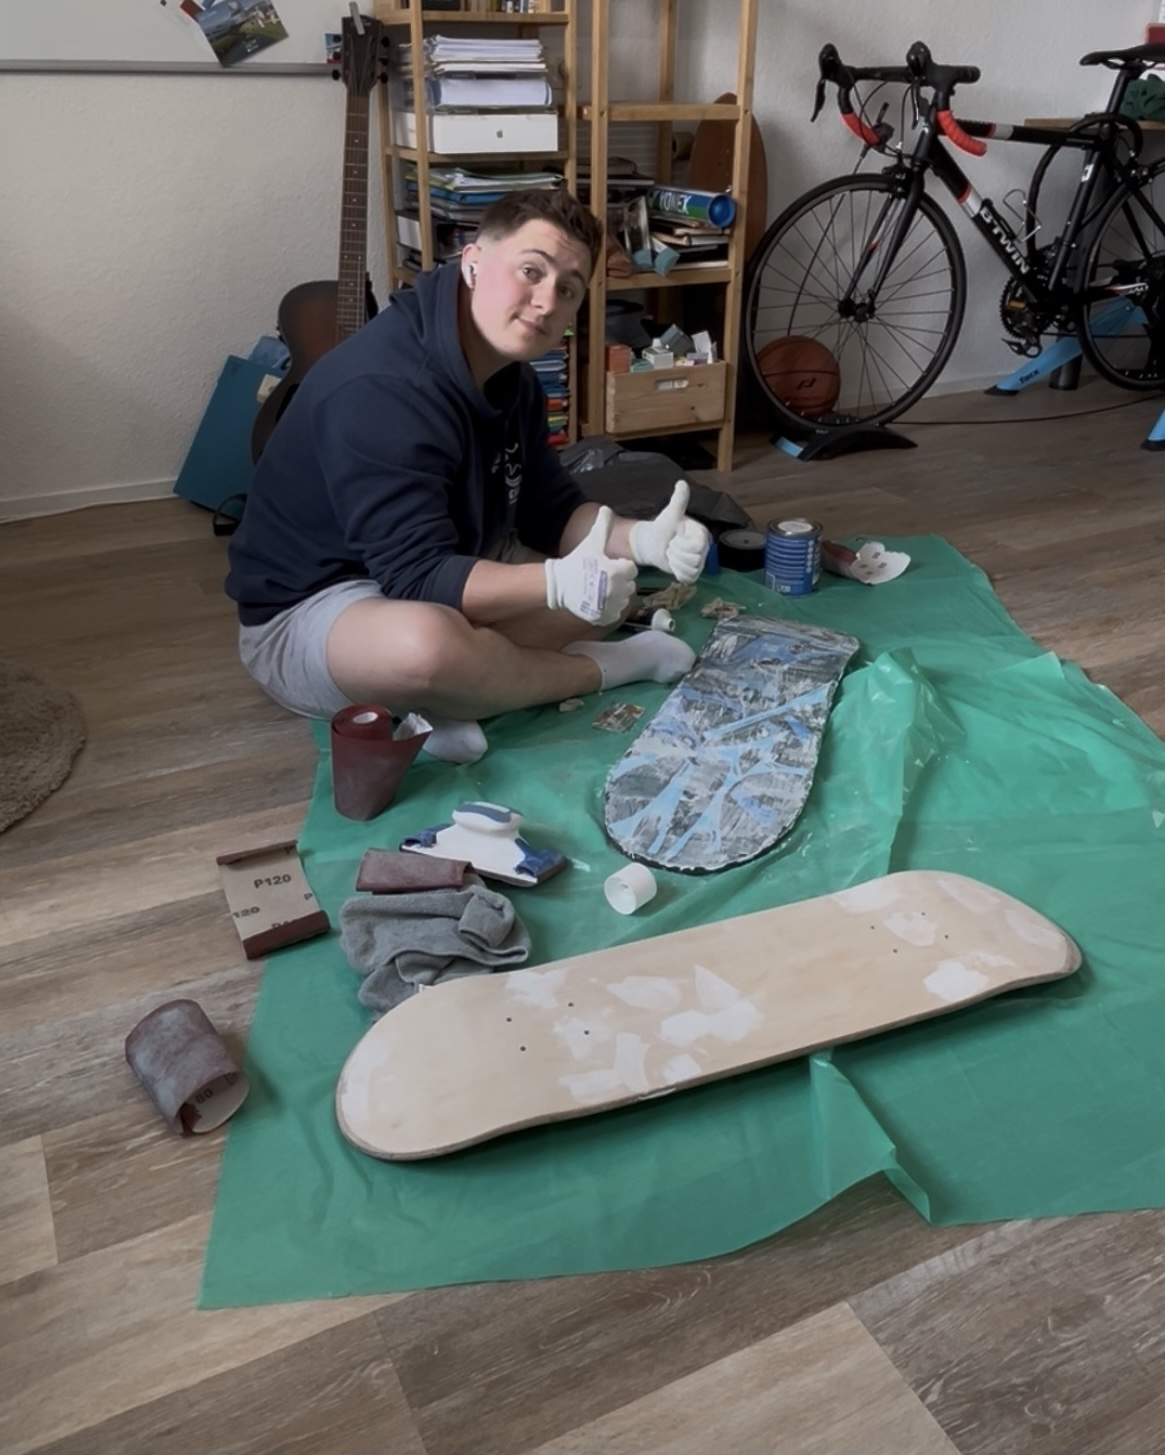
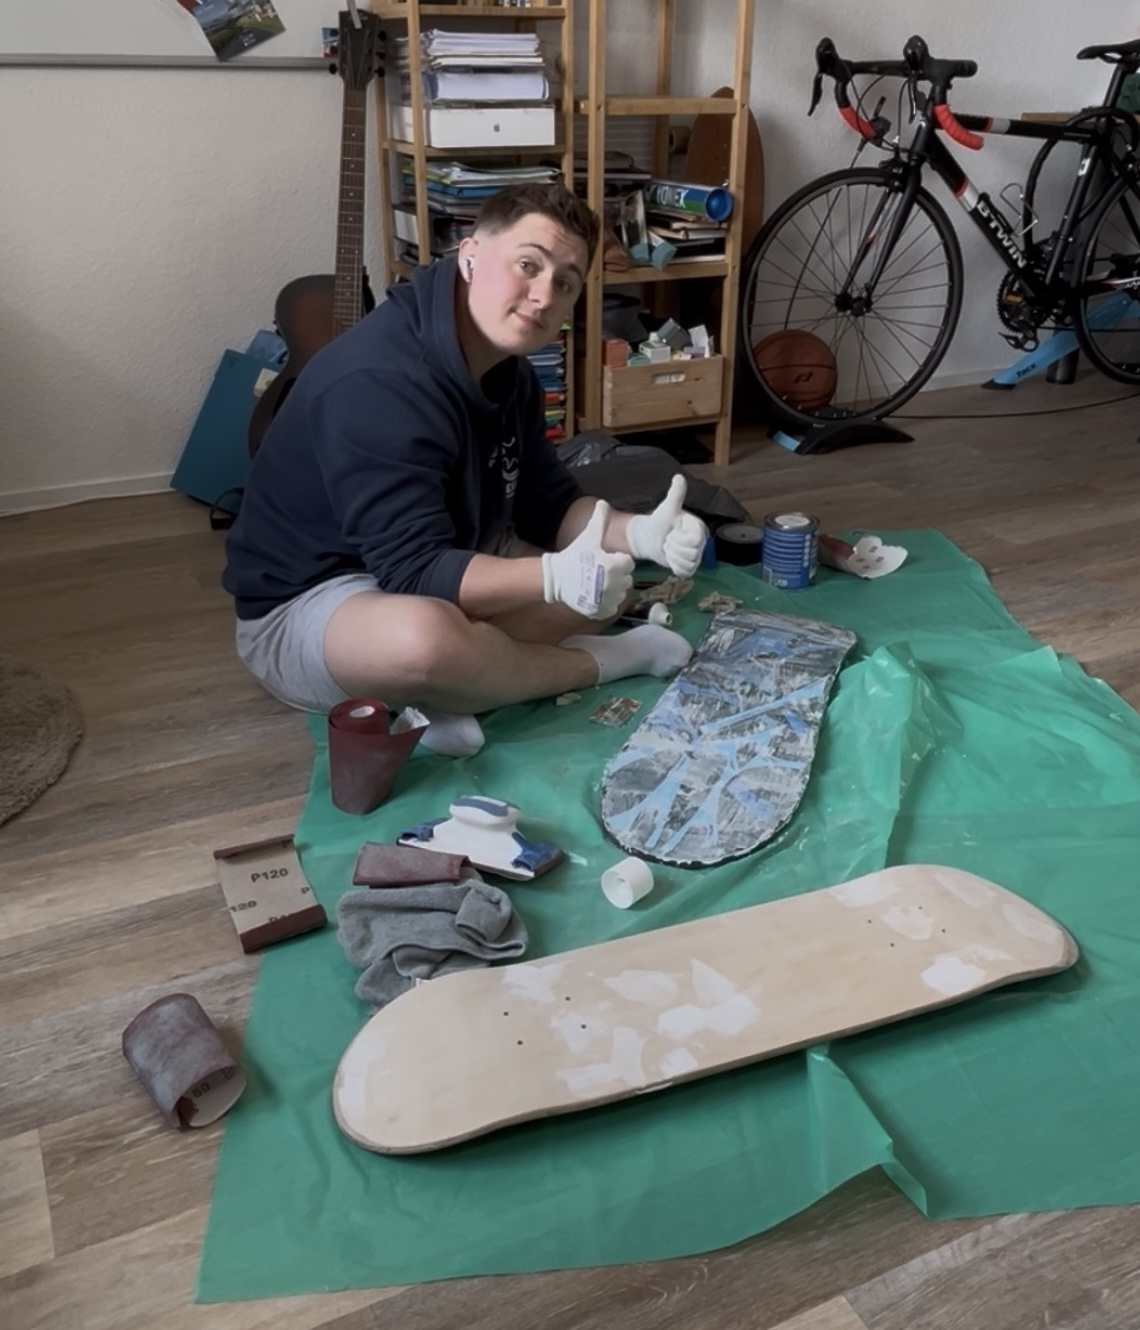
format4

diff --git a/custom/Arianne5.html b/custom/Arianne5.html
@@ -212,7 +212,7 @@
 
     <div id="gallery-4" class="lightbox">
     <a href="#gallery" class="lightbox-close"></a>
-    <img src="../images_custom/Arianne/Ponçage.jpg" alt="Étape ponçage">
+    <img src="../images_custom/Arianne/poncage.JPG" alt="Étape ponçage">
     </div>
 
     <div id="gallery-5" class="lightbox">
